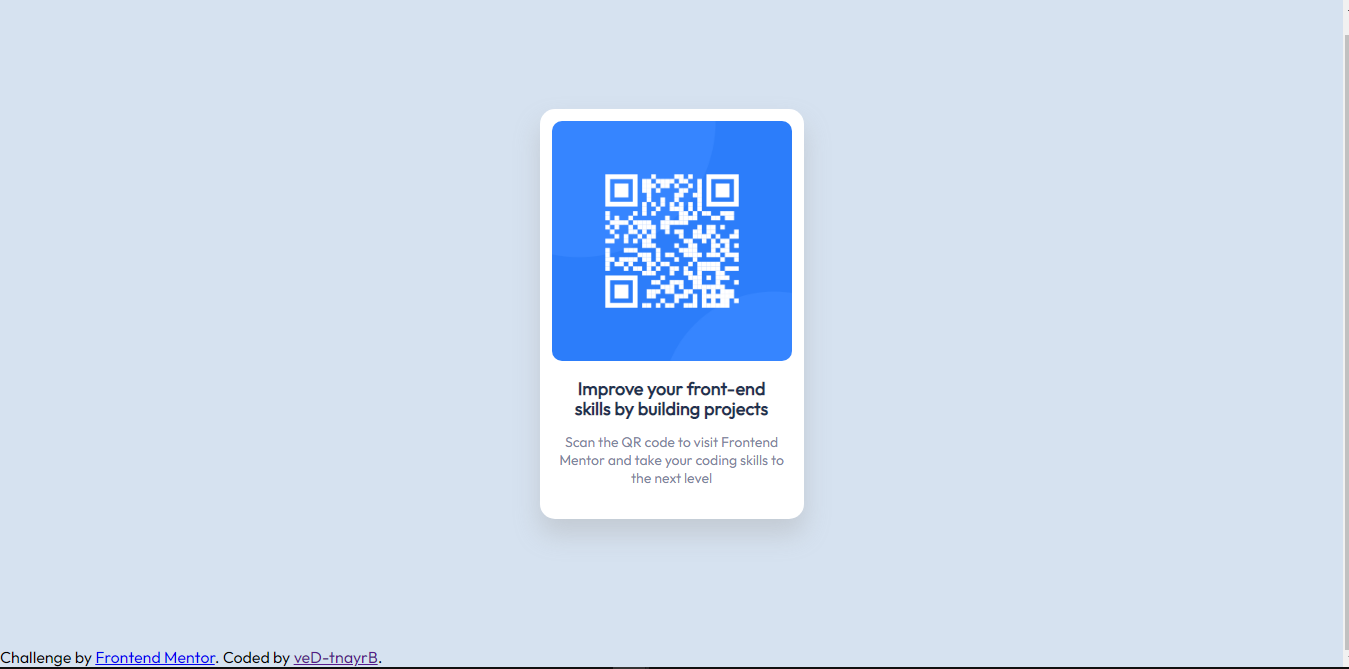
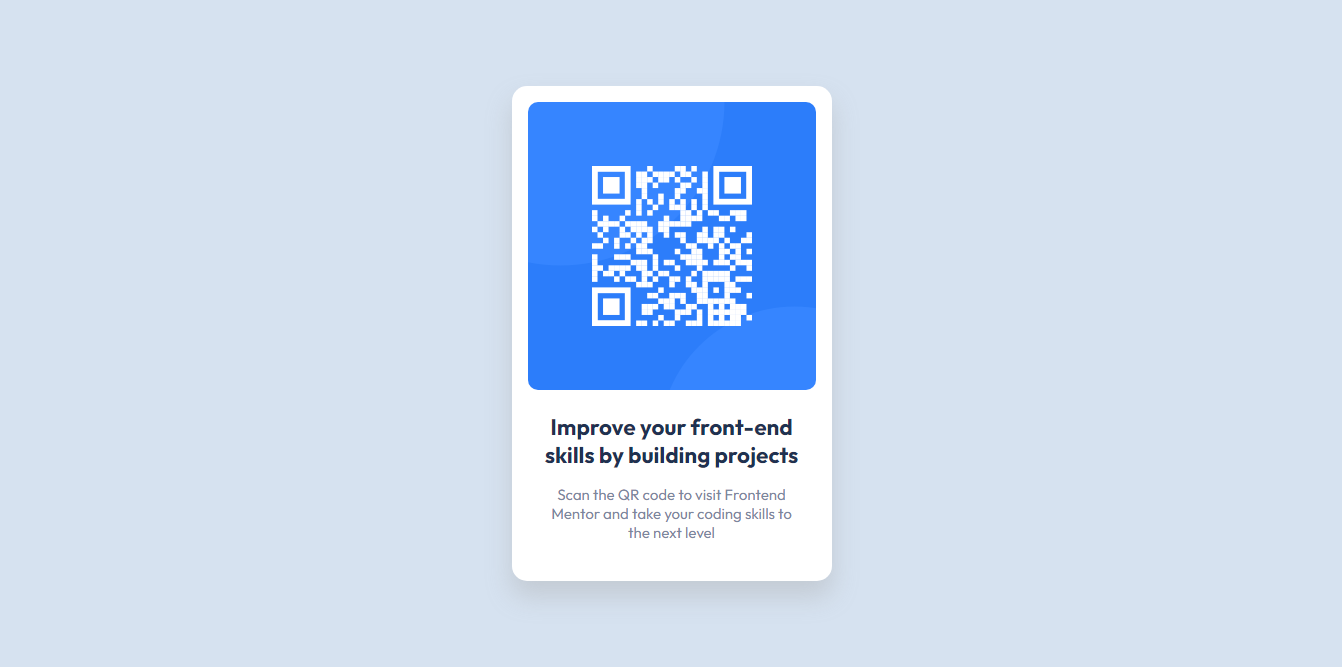
👀Fix: The proportion of some elements has been fixed

Changed region(s): [[0.3666, 0.1199, 0.6416, 0.8996], [0.0, 0.0, 1.0, 1.0]]

diff --git a/assets/main.scss b/assets/main.scss
@@ -12,6 +12,7 @@ $Dark-blue: hsl(218, 44%, 22%);
 body {
     background: $Light-gray;
     font-family: 'Outfit', sans-serif;
+    font-size: 1rem;
 }
 
 main {
@@ -26,8 +27,8 @@ main {
     background: $White;
     border-radius: 15px;
     box-shadow: 0 15px 25px 1px #a0a0a057;
-    width: 15rem;
-    padding: 12px;
+    width: 18rem;
+    padding: 1rem 1rem 2.4rem 1rem;
     display: flex;
     flex-direction: column;
     align-items: center;
@@ -38,24 +39,24 @@ main {
     }
 
     .title-section {
-        margin: 14px 20px;
+        margin: 1.2rem 0 1rem 0;
 
         .title {
             color: $Dark-blue;
-            font-size: 18px;
+            font-size: 1.4rem;
             font-weight: 700;
-            line-height: 20px;
             text-align: center;
         }
     }
 
     .description-section {
-        margin: 0 3px 20px 3px;
+        text-align: center;
+        padding: 0 1rem;
 
         .description {
             color: $Grayish-blue;
-            font-size: 14px;
-            text-align: center;
+            font-weight: 400;
+            font-size: 15px;
             
         }
 

diff --git a/assets/css/main.css b/assets/css/main.css
@@ -7,6 +7,7 @@
 body {
   background: #d6e2f0;
   font-family: "Outfit", sans-serif;
+  font-size: 1rem;
 }
 
 main {
@@ -20,8 +21,8 @@ main {
   background: white;
   border-radius: 15px;
   box-shadow: 0 15px 25px 1px #a0a0a057;
-  width: 15rem;
-  padding: 12px;
+  width: 18rem;
+  padding: 1rem 1rem 2.4rem 1rem;
   display: flex;
   flex-direction: column;
   align-items: center;
@@ -31,20 +32,20 @@ main {
   width: 100%;
 }
 .card .title-section {
-  margin: 14px 20px;
+  margin: 1.2rem 0 1rem 0;
 }
 .card .title-section .title {
   color: #1f3251;
-  font-size: 18px;
+  font-size: 1.4rem;
   font-weight: 700;
-  line-height: 20px;
   text-align: center;
 }
 .card .description-section {
-  margin: 0 3px 20px 3px;
+  text-align: center;
+  padding: 0 1rem;
 }
 .card .description-section .description {
   color: #7b879d;
-  font-size: 14px;
-  text-align: center;
+  font-weight: 400;
+  font-size: 15px;
 }/*# sourceMappingURL=main.css.map */

diff --git a/index.html b/index.html
@@ -8,16 +8,16 @@
   
   <title>Frontend Mentor | QR code component</title>
 
-  <link rel="stylesheet" href="css/main.css">
+  <link rel="stylesheet" href="assets/css/main.css">
   <link rel="preconnect" href="https://fonts.googleapis.com">
   <link rel="preconnect" href="https://fonts.gstatic.com" crossorigin>
-  <link href="https://fonts.googleapis.com/css2?family=Outfit&display=swap" rel="stylesheet">
+  <link href="https://fonts.googleapis.com/css2?family=Outfit:wght@200;300;400;500;600;700&display=swap" rel="stylesheet">
 </head>
 <body>
   <main>
     <article class="card">
       <section class="img-section">
-        <img class="QR-img" src="images/image-qr-code.png" alt="QR Code" srcset="">
+        <img class="QR-img" src="images/image-qr-code.png" alt="QR Code" />
       </section>
 
       <section class="title-section">

diff --git a/README.md b/README.md
@@ -15,9 +15,7 @@ This is a solution to the [QR code component challenge on Frontend Mentor](https
 
 ### Built with
 
-- Semantic HTML5 markup
 - Flexbox
-- CSS Grid
 - Mobile-first workflow
 - Sass
 
@@ -25,4 +23,4 @@ This is a solution to the [QR code component challenge on Frontend Mentor](https
 
 - Frontend Mentor - [@BryantDev_](https://www.frontendmentor.io/profile/BryantDev_)
 
-- Twitter - [@yBryantDev_](https://www.twitter.com/BryantDev_)
+- Twitter - [@BryantDev_](https://www.twitter.com/BryantDev_)
